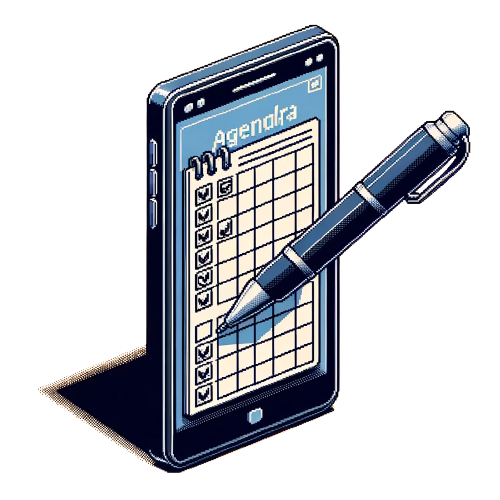
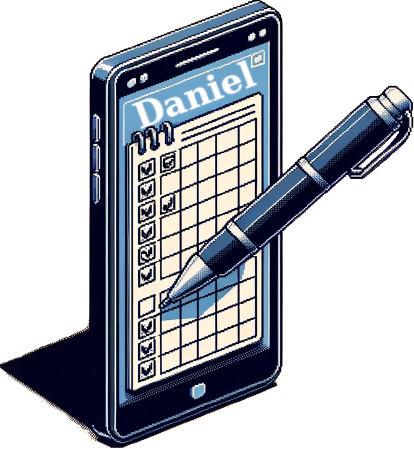
melhorei o css e a responsividade, arrumei o carrosel quando não tiver fotos da empresa cadastrada vai aparecer uma padrão e atualizei a foto pelo gimp

diff --git a/index.html b/index.html
@@ -27,7 +27,7 @@
         </nav>
     </header>
     <style>
-    
+
     </style>
     <main>
         <section class="container">
@@ -62,7 +62,7 @@
             <p>Fale sobre as características mais importantes deste produto ou serviço. Destacar as mais populares
                 funciona também! Fale sobre as características mais importantes deste produto ou serviço. Destacar as
                 mais populares funciona também!</p>
-            <a href="sobre.html" target="_self"><button>Saiba mais</button></a>
+            <button id="sobre">Saiba mais</button>
         </section>
         <!-- Um pouco mais -->
         <section class="agendamento">
@@ -76,7 +76,7 @@
                     como salões de beleza, massagistas, médicos e outras empresas que necessitam de agendamento de
                     horários!</p>
             </div>
-            <a href="cadastrar.html" target="_self"><button>Cadastrar Empresa</button></a>
+            <button class="botaoCadastrar">Cadastrar Empresa</button>
         </section>
         <section class="containerDepoimento">
             <!-- Depoimento -->
@@ -129,11 +129,19 @@
     <script src="js/responsivo.js"></script>
     <script defer src="fontawesome-free-6.4.2-web/js/all.js"></script>
     <script>
+        const botaoSobre = document.getElementById('sobre')
+        botaoSobre.addEventListener("click", () => {
+            window.location.href = "./sobre.html"
+        })
         const botaoCadastrar = document.querySelectorAll('.botaoCadastrar')
         botaoCadastrar.forEach((botao) => {
             botao.addEventListener('click', () => {
                 window.location.href = "./cadastrar.html"
             })
+        })
+        const carouselContainer = document.getElementById('carousel-container')
+        carouselContainer.addEventListener('click', () => {
+            window.location.href = "/login.html"
         })
     </script>
     <!-- Mostrar as empresas  -->
@@ -142,22 +150,39 @@
             try {
                 const response = await fetch('http://localhost:3000/empresa');
                 const empresaData = await response.json();
+                console.log(empresaData)
                 const imagens = empresaData.foto.map(item => item.imagemEmpresa);
+                console.log(imagens)
 
                 const carouselWrapper = document.getElementById('carousel-wrapper');
+
                 const prevBtn = document.getElementById('prevBtn');
                 const nextBtn = document.getElementById('nextBtn');
 
-                imagens.forEach(imagem => {
-                    const slide = document.createElement('div');
-                    slide.classList.add('carousel-item');
+                if (imagens.length > 0) {
+                    imagens.forEach(imagem => {
+                        const divSlide = document.createElement('div');
+                        divSlide.classList.add('carousel-item');
+                        const img = document.createElement('img')
+                        img.src = imagem;
+                        divSlide.appendChild(img);
+                        carouselWrapper.appendChild(divSlide);
+                        nextBtn.style.display = 'block'
+                        prevBtn.style.display = 'block'
+                    });
+                } else {
+                    // Adicione a lógica para exibir a imagem padrão
+                    const divSlide = document.createElement('div');
+                    divSlide.classList.add('carousel-item');
                     const img = document.createElement('img');
-                    img.src = imagem;
-                    slide.appendChild(img);
-                    carouselWrapper.appendChild(slide);
-                });
+                    img.src = "./img/bgCalendario.png";
+                    divSlide.appendChild(img);
+                    carouselWrapper.appendChild(divSlide);
+                    prevBtn.style.display = 'none'
+                    nextBtn.style.display = 'none'
+                }
 
-                let currentIndex = 0;
+                let currentIndex = 0
 
                 function showSlide(index) {
                     const offset = -index * 100;
@@ -179,6 +204,7 @@
             }
         });
     </script>
+
 </body>
 
 </html>

diff --git a/css/responsivo.css b/css/responsivo.css
@@ -1,4 +1,5 @@
 @charset "UTF-8";
+
 #hamb {
     display: none;
     cursor: pointer;
@@ -8,12 +9,15 @@
 
 /* tablet */
 @media all and (max-width: 690px) {
-    .disponivel div{
+    .disponivel div {
         text-align: center;
     }
-    p,a{
+
+    p,
+    a {
         text-align: justify;
     }
+
     nav {
         display: none;
         top: 100%;
@@ -24,9 +28,11 @@
         position: absolute;
         z-index: 1;
     }
-    nav span{
+
+    nav span {
         display: none;
     }
+
     nav li {
         display: flex;
         justify-content: center;
@@ -53,30 +59,35 @@
         font-size: 4em;
     }
 
-    .depoimento{
+    .depoimento {
         max-width: 90%;
     }
-    .agendamento button{
+
+    .agendamento button {
         width: auto;
         padding: 20px;
     }
 }
 
 @media all and (max-width: 612px) {
-    .faixa{
+    .faixa {
         display: none;
     }
-    .contatos p{
+
+    .contatos p {
         display: none;
     }
-    .containerSocial{
+
+    .containerSocial {
         display: flex;
         align-items: center;
         justify-content: center;
     }
+
     .container h1 {
         font-size: 3em;
     }
+
     .container {
         flex-direction: column;
         width: 100%;
@@ -85,13 +96,42 @@
     .container img {
         width: 100%;
     }
-    footer img{
+
+    footer img {
         width: 12em;
     }
 }
 
-@media all and (max-width: 860px){
-    .container button{
-        font-size: 13px;
+@media all and (max-width: 860px) {
+    h1 {
+        font-size: 50px;
+    }
+
+    .container button {
+        font-size: 17px;
+    }
+
+    nav ul li a {
+        font-size: clamp(20px, 18px, 30px);
+    }
+
+    .sobre p,
+    .agendamento p,
+    .disponivel p {
+        font-size: clamp(20px, 18px, 26px);
+        text-align: justify;
+        border: 1px solid black;
+        padding: 20px;
+        border-radius: 20px;
+    }
+
+    .container p {
+        font-size: 30px;
+        max-width: 430px;
+    }
+
+    .depoimento div {
+        height: 273px;
+        font-size: clamp(20px, 16px);
     }
 }

diff --git a/css/style.css b/css/style.css
@@ -154,7 +154,9 @@ img {
 }
 
 /* disponibilidade da empresa */
-
+.disponivel p{
+    margin-bottom: 30px;
+}
 /* Pagina sobre a empresa */
 .sobre,
 .disponivel {
@@ -189,9 +191,6 @@ img {
 .sobre button {
     width: 60%;
     margin: 30px 0px;
-}
-.agendamento a, .sobre a{
-    min-width: 800px;
 }
 /* agendamento */
 
@@ -331,6 +330,7 @@ footer img {
 
 /* Estilo para o carrossel */
 #carousel-container {
+    max-width: 1200px;
     width: 100%;
     max-height: 500px;
     overflow: hidden;
@@ -338,6 +338,7 @@ footer img {
     display: flex;
     justify-content: center;
     align-items: center;
+    cursor: pointer;
 }
 
 #carousel-wrapper {
@@ -384,4 +385,3 @@ footer img {
         min-width: 100%;
     }
 }
-
